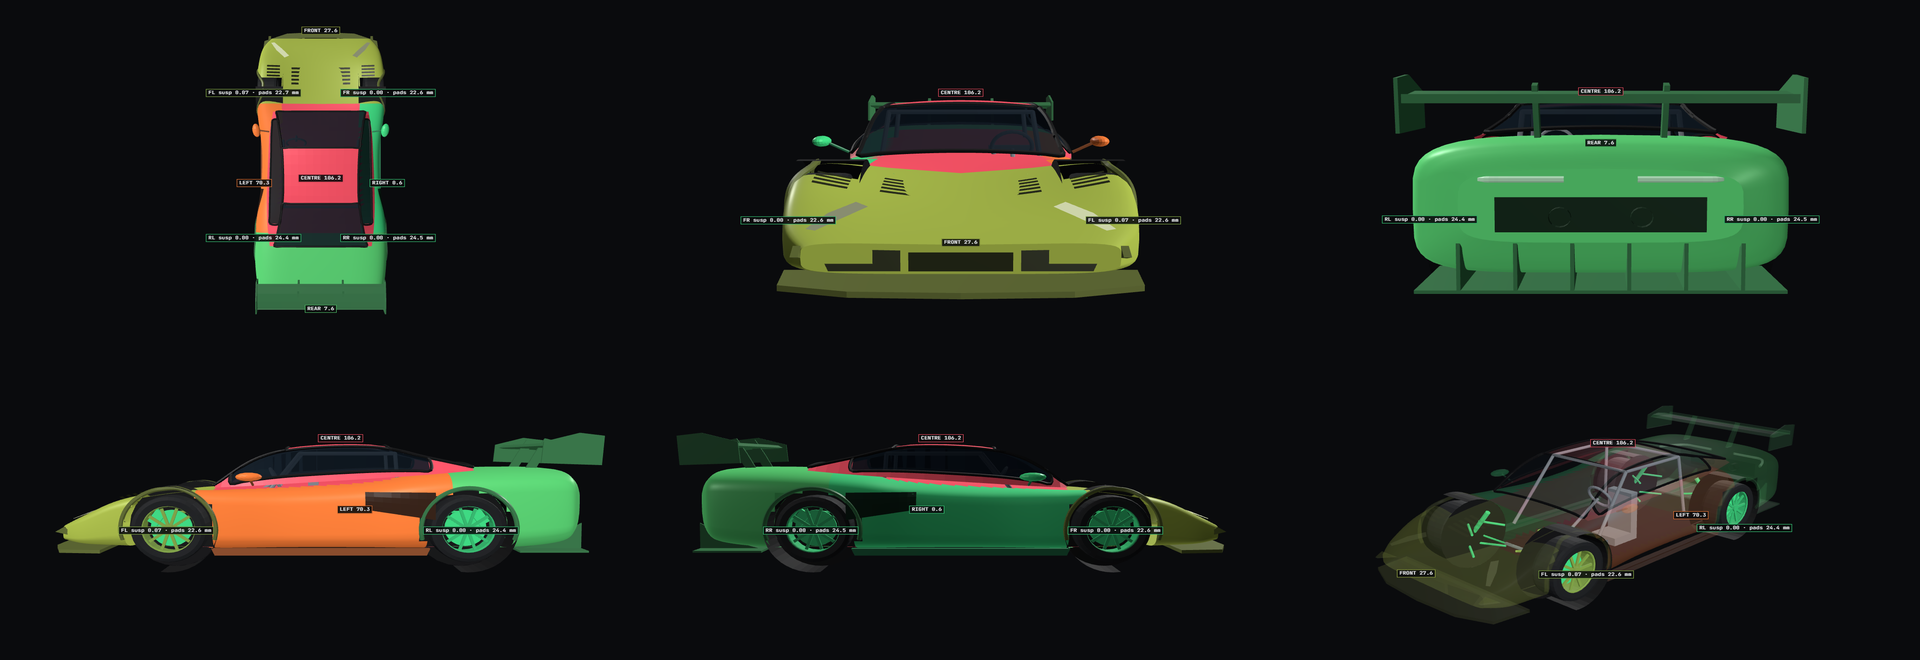
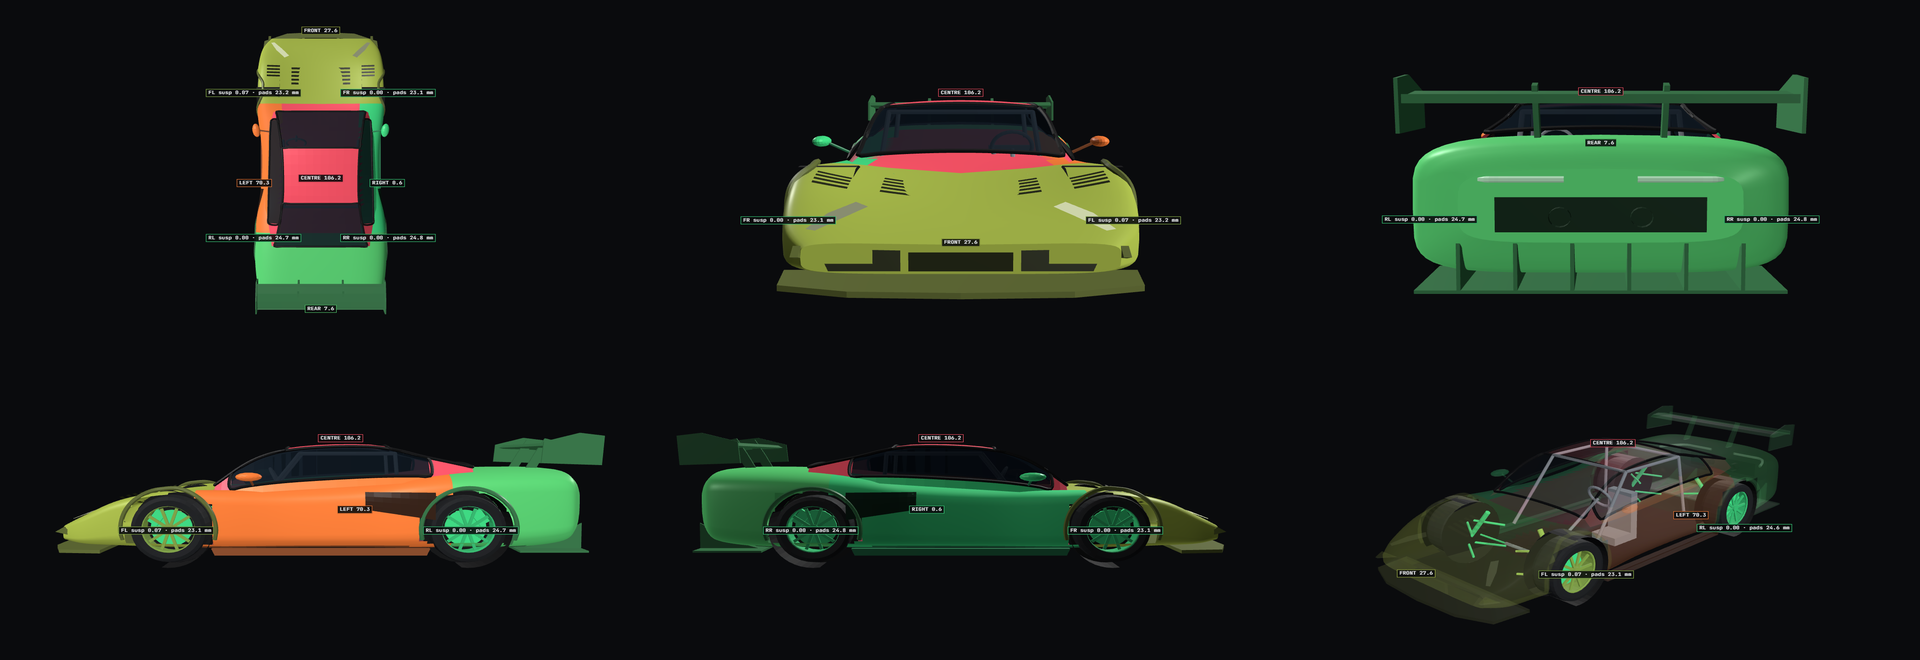
Car damage 3D: the door reaches the window, the fenders close over the wheels
The cabin's base now sinks into the bodywork, so there is no gap between the door top and the
side window, and the strip under the window is painted as that side's door (left or right
zone) rather than the centre. The arch openings are cut in the body side only, so the fender
tops stay over the wheels (from above the wheels no longer show), the wells sit inside the
fenders, and the floor is carbon instead of a zone's paint.

diff --git a/web/js/car3d.js b/web/js/car3d.js
@@ -94,8 +94,9 @@ const CAR3D = {
       const nn = g.attributes.normal.array, P = i => [pos[3 * i], pos[3 * i + 1], pos[3 * i + 2]], N = i => [nn[3 * i], nn[3 * i + 1], nn[3 * i + 2]];
       for (const [a, b, c, d] of quads) {
         const m = [0, 1, 2].map(j => (P(a)[j] + P(b)[j] + P(c)[j] + P(d)[j]) / 4);
-        if (inArch(...m)) continue;   // the wheel arch openings
-        tri('shell', P(a), P(b), P(c), N(a), N(b), N(c), zoneAt, 'body'); tri('shell', P(a), P(c), P(d), N(a), N(c), N(d), zoneAt, 'body');
+        const ny = (N(a)[1] + N(b)[1] + N(c)[1] + N(d)[1]) / 4, kind = m[2] < .15 ? 'carbon' : 'body';   // the floor is carbon, not a zone's paint
+        if (inArch(...m) && Math.abs(ny) > .55) continue;   // the wheel arch openings: cut in the side only; the fender stays over the wheel
+        tri('shell', P(a), P(b), P(c), N(a), N(b), N(c), zoneAt, kind); tri('shell', P(a), P(c), P(d), N(a), N(c), N(d), zoneAt, kind);
       }
       g.dispose();
       for (const [r, part, dir] of [[R[0], 'rear', -1], [R[R.length - 1], 'front', 1]]) {   // tail and nose caps
@@ -108,21 +109,21 @@ const CAR3D = {
       const lip = [];
       for (let k = 0; k <= 24; k++) { const a = -.25 + (Math.PI + .5) * k / 24, x = ax + (AR + .005) * Math.cos(a), z = .34 + (AR + .005) * Math.sin(a); const zc = Math.min(z, secAt(x)[3] - .05); lip.push([x, s * (sideY(x, zc) - .004), zc]); }   // never above the fender
       tube('shell', lip, .022, false, ax > 0 ? 'front' : 'rear', 'carbon');
-      geo('inner', new T.CylinderGeometry(AR + .02, AR + .02, .42, 24, 1, true, Math.PI * .95, Math.PI * 1.1), M(ax, s * .80, .34), 'well', 'well');   // the drum over the wheel
-      geo('inner', new T.CircleGeometry(AR + .02, 24), M(ax, s * .59, .34, Math.PI / 2), 'well', 'well');
+      geo('inner', new T.CylinderGeometry(.395, .395, .36, 24, 1, true, Math.PI * .95, Math.PI * 1.1), M(ax, s * .82, .34), 'well', 'well');   // the drum over the wheel, inside the fender
+      geo('inner', new T.CircleGeometry(.395, 24), M(ax, s * .64, .34, Math.PI / 2), 'well', 'well');
     });
     // ---- the cabin: a teardrop canopy; windscreen, side windows and rear window are glass in black frames ----
     const CK = smooth([[0.98, .74, .76, .68, .78], [0.62, .79, .78, .62, 1.05], [0.20, .81, .81, .57, 1.17], [-0.50, .83, .86, .56, 1.19], [-1.00, .82, .90, .62, 1.07],
       [-1.40, .78, .94, .70, .97]], 4), CN = 10;
-    const cab = CK.map(([x, wb, zb, wr, zr]) => { const top = []; for (let k = 0; k <= CN; k++) { const y = wr * (1 - 2 * k / CN); top.push([x, y, zr + .035 * (1 - (y / wr) ** 2)]); } return [[x, wb, zb], ...top, [x, -wb, zb]]; });
+    const cab = CK.map(([x, wb, zb, wr, zr]) => { const top = []; for (let k = 0; k <= CN; k++) { const y = wr * (1 - 2 * k / CN); top.push([x, y, zr + .035 * (1 - (y / wr) ** 2)]); } return [[x, wb + .03, zb - .07], ...top, [x, -wb - .03, zb - .07]]; });   // the base sinks into the bodywork: no gap under the windows
     const xs = cab.map(r => r[0][0]), WS = [0.98, 0.30], RW = [-0.62, -1.40], SW = [0.80, -1.02];   // windscreen, rear window, side window x ranges
     const inR = (x, [a, b]) => x <= Math.max(a, b) + 1e-6 && x >= Math.min(a, b) - 1e-6, m = cab[0].length;
     for (let i = 0; i < cab.length - 1; i++) {
       const a = cab[i], b = cab[i + 1], xm = (xs[i] + xs[i + 1]) / 2, glassTop = inR(xm, WS) || inR(xm, RW);
       for (let k = 1; k < m - 2; k++) quad(glassTop ? 'glass' : 'shell', a[k], a[k + 1], b[k + 1], b[k], 'centre', glassTop ? 'glass' : 'body');
-      for (const [p, q] of [[0, 1], [m - 1, m - 2]]) {   // the sides: window glass over a body-colour strip, or a pillar
+      for (const [p, q] of [[0, 1], [m - 1, m - 2]]) {   // the sides: window glass over the door's top, or a pillar
         const mid = c => c[p].map((v, e) => v + (c[q][e] - v) * .22);
-        if (inR(xm, SW)) { quad('shell', a[p], b[p], mid(b), mid(a), 'centre', 'body'); quad('glass', mid(a), mid(b), b[q], a[q], 'centre', 'glass'); }
+        if (inR(xm, SW)) { quad('shell', a[p], b[p], mid(b), mid(a), p === 0 ? 'left' : 'right', 'body'); quad('glass', mid(a), mid(b), b[q], a[q], 'centre', 'glass'); }
         else quad('shell', a[p], b[p], b[q], a[q], 'centre', 'body');
       }
     }
